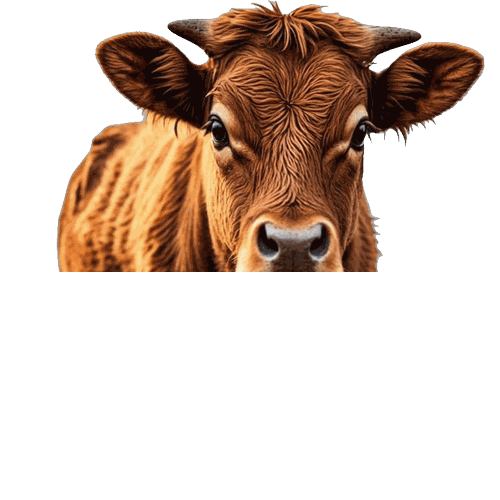
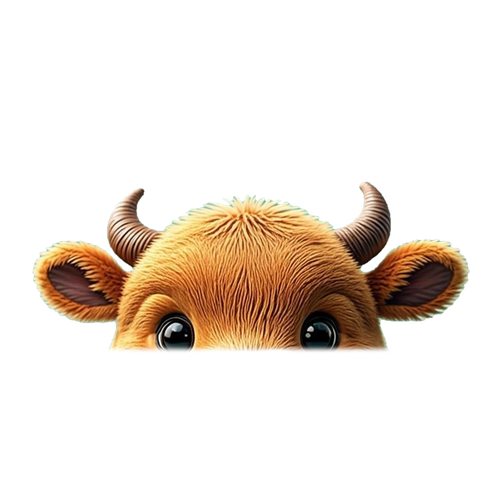
Touro refeito no padrao panda (corte visivel no jogo) + bump cache v17

diff --git a/jogo.js b/jogo.js
@@ -187,7 +187,7 @@ const AJUSTES = {
   sereia:      { escala: 1.36, cabeca: 3.01, ajusteY: 2.95 },
   fenix:       { escala: 1.20, cabeca: 1.55, ajusteY: 8 },
   /* Leva 3 */
-  touro:         { escala: 1.12, cabeca: 2.48, ajusteY: 2.85 },
+  touro:         { escala: 1.12, cabeca: 2.88, ajusteY: -1.88 },
   ponei:         { escala: 1.25, cabeca: 2.76, ajusteY: 5.18 },
   pavao:         { escala: 1, cabeca: 1.58, ajusteY: -1.82 },
   hipopotamo:    { escala: 1.17, cabeca: 1.99, ajusteY: -0.97 },

diff --git a/service-worker.js b/service-worker.js
@@ -9,7 +9,7 @@
    Resultado: rápido + nunca fica preso em versão antiga.
    ============================================================ */
 
-const CACHE = 'cabeca-v16';
+const CACHE = 'cabeca-v17';
 
 const ESSENCIAIS = [
   './',

diff --git a/index.html b/index.html
@@ -206,7 +206,7 @@
 </div>
 
 <script src="audio.js?v=5"></script>
-<script src="jogo.js?v=12"></script>
+<script src="jogo.js?v=13"></script>
 <script>
   if ('serviceWorker' in navigator){
     window.addEventListener('load', () => {
